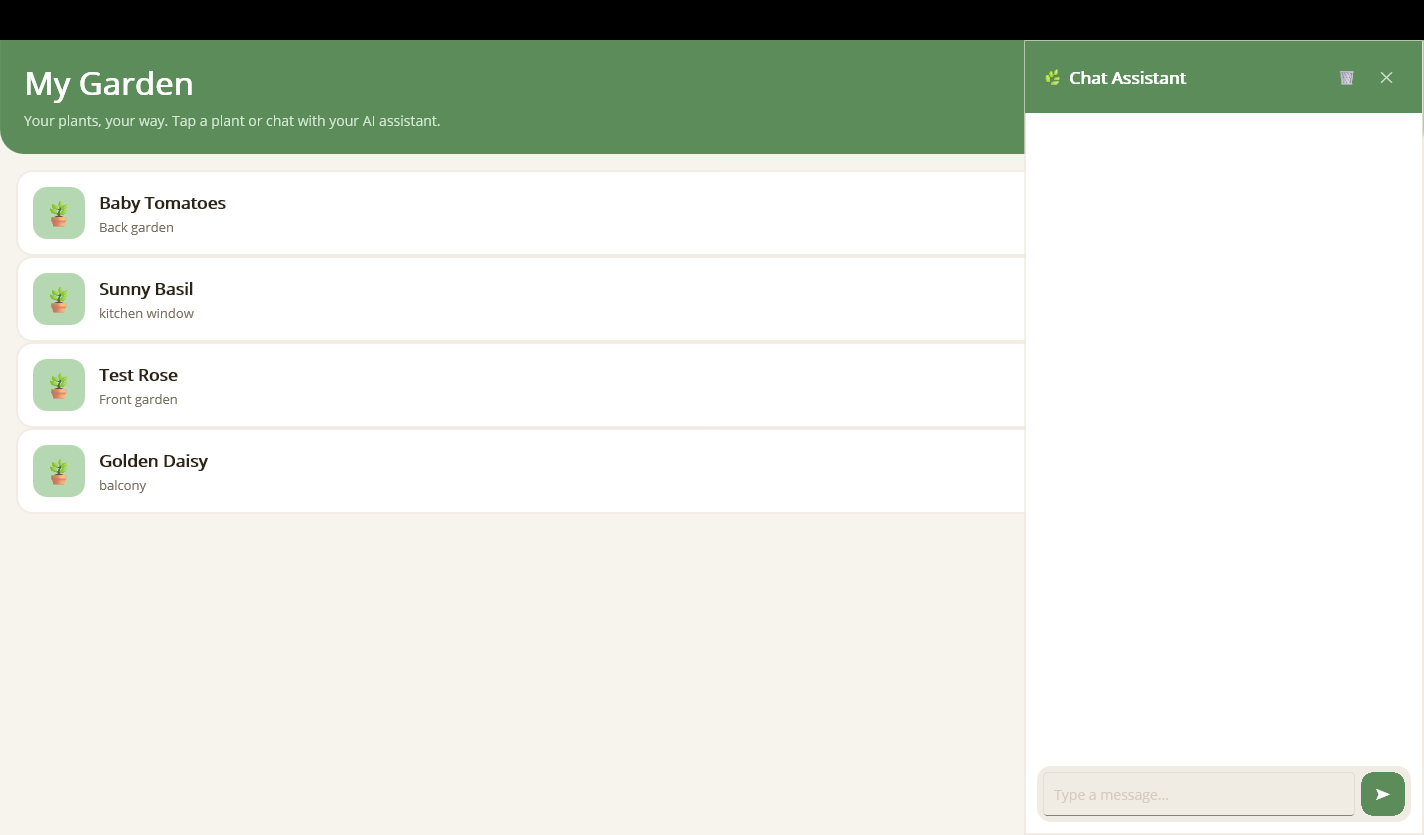
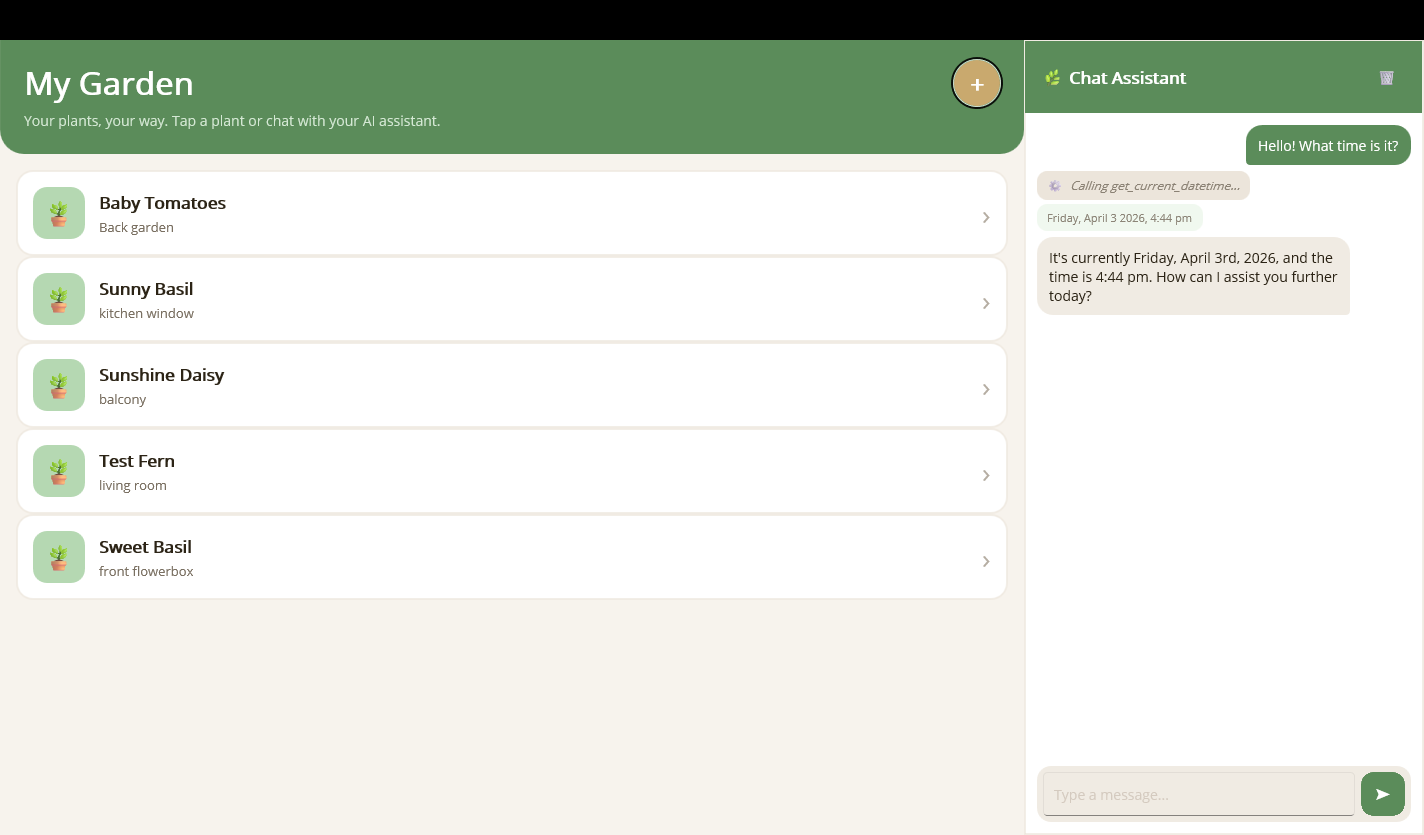
Replace overlay with permanent ChatSidebarControl, fix plant taps
- New ChatSidebarControl: simple permanent panel (header + ChatPanelControl)
  No FAB, no overlay, no show/hide responsive logic
- HomePage: split layout Grid ColumnDefinitions='*,400'
  Plant list on left, chat sidebar on right (always visible)
- Fix plant card taps: ChatOverlayControl's full-page Grid was
  intercepting all touch events even when overlay was hidden.
  With permanent sidebar in a separate column, plant list gets taps.
- Remove OnChatClosed handler (no close event with permanent sidebar)
- Update homepage and chat sidebar screenshots

diff --git a/src/MauiAIAnnotations.Maui/Controls/ChatSidebarControl.xaml b/src/MauiAIAnnotations.Maui/Controls/ChatSidebarControl.xaml
@@ -1,0 +1,46 @@
+<?xml version="1.0" encoding="utf-8" ?>
+<ContentView xmlns="http://schemas.microsoft.com/dotnet/2021/maui"
+             xmlns:x="http://schemas.microsoft.com/winfx/2009/xaml"
+             xmlns:controls="clr-namespace:MauiAIAnnotations.Maui.Controls"
+             x:Class="MauiAIAnnotations.Maui.Controls.ChatSidebarControl"
+             x:Name="Self"
+             AutomationId="ChatSidebar">
+
+    <Border Padding="0"
+            Stroke="{AppThemeBinding Light=#E8E0D4, Dark=#3D3930}"
+            StrokeThickness="1"
+            BackgroundColor="{AppThemeBinding Light=#FFFFFF, Dark=#2A2721}">
+        <Border.StrokeShape>
+            <RoundRectangle CornerRadius="0" />
+        </Border.StrokeShape>
+
+        <Grid RowDefinitions="Auto,*" RowSpacing="0">
+            <!-- Chat Header -->
+            <Border Grid.Row="0"
+                    BackgroundColor="#5B8C5A"
+                    Padding="16,14"
+                    StrokeThickness="0">
+                <Border.StrokeShape>
+                    <RoundRectangle CornerRadius="0" />
+                </Border.StrokeShape>
+                <Grid ColumnDefinitions="*,Auto">
+                    <Label Text="&#x1F33F; Chat Assistant"
+                           FontSize="17" FontAttributes="Bold"
+                           TextColor="White" VerticalOptions="Center" />
+                    <Button Grid.Column="1" Text="&#x1F5D1;" FontSize="14"
+                            AutomationId="ClearChatButton"
+                            BackgroundColor="Transparent" TextColor="#D4E8D4"
+                            Command="{Binding ChatVM.ClearCommand, Source={x:Reference Self}}"
+                            Padding="8,4" MinimumWidthRequest="40"
+                            ToolTipProperties.Text="Clear chat" />
+                </Grid>
+            </Border>
+
+            <!-- Inner ChatPanelControl -->
+            <controls:ChatPanelControl x:Name="InnerChatPanel"
+                                       Grid.Row="1"
+                                       ChatVM="{Binding ChatVM, Source={x:Reference Self}}" />
+        </Grid>
+    </Border>
+
+</ContentView>

diff --git a/samples/MauiSampleApp/Pages/HomePage.xaml b/samples/MauiSampleApp/Pages/HomePage.xaml
@@ -12,9 +12,9 @@
              BackgroundColor="{AppThemeBinding Light={StaticResource PageBg}, Dark={StaticResource PageBgDark}}"
              Shell.BackgroundColor="{StaticResource AccentGreen}">
 
-    <Grid>
+    <Grid ColumnDefinitions="*,400" ColumnSpacing="0">
         <!-- Main Content -->
-        <Grid RowDefinitions="Auto,*" RowSpacing="0">
+        <Grid Grid.Column="0" RowDefinitions="Auto,*" RowSpacing="0">
 
             <!-- Hero Header -->
             <Border Grid.Row="0"
@@ -114,13 +114,12 @@
                     </DataTemplate>
                 </CollectionView.ItemTemplate>
             </CollectionView>
-
         </Grid>
 
-        <!-- Reusable Chat Overlay -->
-        <maui:ChatOverlayControl ChatVM="{Binding ChatViewModel}"
-                                 ChatClosed="OnChatClosed">
-            <maui:ChatOverlayControl.ContentTemplates>
+        <!-- Permanent Chat Sidebar -->
+        <maui:ChatSidebarControl Grid.Column="1"
+                                 ChatVM="{Binding ChatViewModel}">
+            <maui:ChatSidebarControl.ContentTemplates>
                 <mauiChat:TextContentMapping Role="User" ViewType="{x:Type mauiChat:UserTextView}" />
                 <mauiChat:TextContentMapping Role="Assistant" ViewType="{x:Type mauiChat:AssistantTextView}" />
                 <mauiChat:FunctionCallMapping ViewType="{x:Type mauiChat:FunctionCallView}" />
@@ -131,8 +130,8 @@
                 <mauiChat:FunctionResultMapping ViewType="{x:Type mauiChat:FunctionResultView}" />
                 <mauiChat:ErrorContentMapping ViewType="{x:Type mauiChat:ErrorView}" />
                 <mauiChat:DefaultContentMapping ViewType="{x:Type mauiChat:DefaultContentView}" />
-            </maui:ChatOverlayControl.ContentTemplates>
-        </maui:ChatOverlayControl>
+            </maui:ChatSidebarControl.ContentTemplates>
+        </maui:ChatSidebarControl>
     </Grid>
 
 </ContentPage>

diff --git a/src/MauiAIAnnotations.Maui/Controls/ChatSidebarControl.xaml.cs b/src/MauiAIAnnotations.Maui/Controls/ChatSidebarControl.xaml.cs
@@ -1,0 +1,44 @@
+using System.Collections.ObjectModel;
+using System.Collections.Specialized;
+using MauiAIAnnotations.Maui.Chat;
+using MauiAIAnnotations.Maui.ViewModels;
+
+namespace MauiAIAnnotations.Maui.Controls;
+
+/// <summary>
+/// A permanent chat sidebar that is always visible.
+/// Unlike <see cref="ChatOverlayControl"/>, this has no FAB button,
+/// no overlay, and no show/hide logic — it's just a chat panel with a header.
+/// Use it in a split layout (e.g. Grid with two columns).
+/// </summary>
+public partial class ChatSidebarControl : ContentView
+{
+    public static readonly BindableProperty ChatVMProperty =
+        BindableProperty.Create(
+            nameof(ChatVM),
+            typeof(ChatViewModel),
+            typeof(ChatSidebarControl));
+
+    public ChatViewModel? ChatVM
+    {
+        get => (ChatViewModel?)GetValue(ChatVMProperty);
+        set => SetValue(ChatVMProperty, value);
+    }
+
+    private readonly ObservableCollection<ContentTemplateMapping> _contentTemplates = [];
+
+    public IList<ContentTemplateMapping> ContentTemplates => _contentTemplates;
+
+    public ChatSidebarControl()
+    {
+        InitializeComponent();
+        _contentTemplates.CollectionChanged += OnContentTemplatesChanged;
+    }
+
+    private void OnContentTemplatesChanged(object? sender, NotifyCollectionChangedEventArgs e)
+    {
+        InnerChatPanel.ContentTemplates.Clear();
+        foreach (var t in _contentTemplates)
+            InnerChatPanel.ContentTemplates.Add(t);
+    }
+}

diff --git a/samples/MauiSampleApp/Pages/HomePage.xaml.cs b/samples/MauiSampleApp/Pages/HomePage.xaml.cs
@@ -36,9 +36,4 @@ public partial class HomePage : ContentPage
     {
         await Shell.Current.GoToAsync("AddPlant");
     }
-
-    private async void OnChatClosed(object? sender, EventArgs e)
-    {
-        await _viewModel.RefreshPlantsAsync();
-    }
 }
